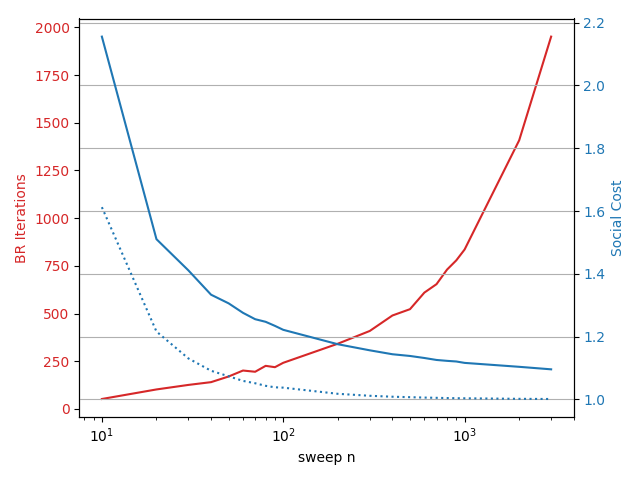
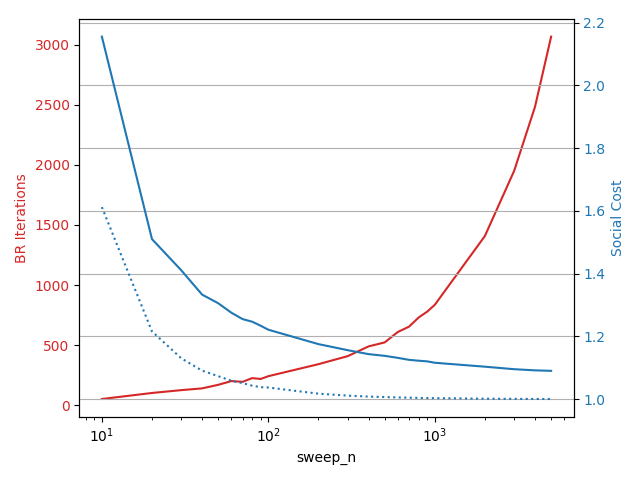
new results and adding alpha capabilities

diff --git a/main_parallel.py b/main_parallel.py
@@ -5,7 +5,6 @@ from best_response_algo import best_response_algo
 from p_regression import generate_data, fit_model
 from plot_from_csv import plot
 import csv
-#from tqdm import tqdm 
 
 import time
 import concurrent.futures 
@@ -16,12 +15,16 @@ N = 100
 NUM_SIMS = 1000
 ALPHA = 1
 XDIM = 5
-NUM_CORES = 25
+NUM_CORES = 12
 
 def run_simulation(tup):
     "Find the nash equilbrium for the given input and get the necessary stats"""
+    a = None
+    if len(tup) == 5:
+        X, true_Y, n_, with_l1, p = tup
+    if len(tup) == 6:
+        X, true_Y, n_, with_l1, p, a = tup
 
-    X, true_Y, n_, with_l1, p = tup
     proj_Y = np.matmul(X, fit_model(X, true_Y))
     MSE_h = np.sum(np.power(proj_Y - true_Y, 2))
 
@@ -31,7 +34,7 @@ def run_simulation(tup):
     else:
         MSE_l1 = 1
 
-    equi_exists, counter, iters, equi_report, beta_equi = best_response_algo(X, true_Y, p)
+    equi_exists, counter, iters, equi_report, beta_equi = best_response_algo(X, true_Y, p, alpha=a)
     social_cost, social_cost_l1, br_iters = 1, 1, 1
     if equi_exists:
         proj = np.matmul(X, beta_equi)
@@ -214,6 +217,62 @@ def sweep_d(d_vals, with_l1=False, to_plot=True):
         else:
             plot(d_vals, "X dimension", "sweep_d", br_iters, social_cost)
 
+def sweep_alpha(a_vals, with_l1=False, to_plot=True):
+    """ Sweep the dimension of the X, and run NUM_SIMS number fo simulations for each values
+    Parallelize the simulations across multiple processes
+    compute the best response iterations, social cost of equi and social cost of L1"""
+    
+    csv_file = open("sweep_alpha.csv", mode='w')
+    csv_writer = csv.writer(csv_file, delimiter=',')
+    social_cost, social_cost_l1, br_iters, equi_found = [], [], [], []
+    social_cost_var, social_cost_l1_var, br_iters_var = [], [], []
+
+    for a_ in a_vals:
+        social_cost_, social_cost_l1_, br_iters_ = [], [], []
+        print("a = ", a_)
+        
+        inputs = []
+        for i in range(NUM_SIMS):
+            X, true_Y = generate_data(d=XDIM, n=N)
+            tup = (X, true_Y, N, with_l1, P, a_)
+            inputs.append(tup)
+            
+        executor = concurrent.futures.ProcessPoolExecutor(NUM_CORES)
+        futures = [executor.submit(run_simulation, item) for item in inputs]
+        concurrent.futures.wait(futures)
+
+        for future in futures:
+            assert(future.done())
+            tup = future.result()
+            br_time, sc, sc_l1 = tup
+            br_iters_.append(br_time)
+            social_cost_.append(sc)
+            social_cost_l1_.append(sc_l1)
+
+        br_iters_, social_cost_, social_cost_l1_ = np.array(br_iters_), np.array(social_cost_), np.array(social_cost_l1_)
+        avg_br, var_br = np.mean(br_iters_), np.sqrt(np.var(br_iters_))
+        avg_sc, var_sc = np.mean(social_cost_), np.sqrt(np.var(social_cost_))
+        avg_sc_l1, var_sc_l1 = np.mean(social_cost_l1_), np.sqrt(np.var(social_cost_l1_))
+        
+        csv_writer.writerow([str(a_), str(avg_br), str(var_br), \
+                str(avg_sc), str(var_sc), str(avg_sc_l1), str(var_sc_l1)])
+        csv_file.flush()
+
+        br_iters.append(avg_br)
+        social_cost.append(avg_sc)
+        social_cost_l1.append(avg_sc_l1)
+        equi_found.append( len(social_cost_) / NUM_SIMS )
+
+        br_iters_var.append(var_br)
+        social_cost_var.append(var_sc)
+        social_cost_l1_var.append(var_sc_l1)
+    
+    if to_plot:
+        if with_l1 == True:
+            plot(a_vals, "X dimension", "sweep_d", br_iters, social_cost, social_cost_l1)
+        else:
+            plot(a_vals, "X dimension", "sweep_d", br_iters, social_cost)
+
 def benchmark_n():
     print("Benchmarking n")
     start = time.time()
@@ -235,16 +294,28 @@ def benchmark_p():
     end = time.time()
     print(end-start)
 
+def benchmark_alpha():
+    print("Benchmarking alpha")
+    start = time.time()
+    sweep_alpha([0.1, 0.2], with_l1=True, to_plot=False)
+    end = time.time()
+    print(end-start)
+
 if __name__ == "__main__":
     #n_vals = np.concatenate([np.arange(10,100,10), np.arange(100,1000,100), np.arange(1000, 11000, 1000)])
-    #sweep_n(n_vals, with_l1=True)
+    #n_vals = [4000, 5000, 6000]
+    #sweep_n(n_vals, with_l1=True, to_plot=False)
 
     #d_vals = np.arange(1, 20, 2)
     #sweep_d(d_vals, with_l1=True)
     
-    p_vals = [1.1, 1.2, 1.3, 1.4, 1.5, 1.6, 1.7, 1.8, 1.9, 2, 3, 4, 5, 6, 7, 8, 9, 10]
-    sweep_p(p_vals, with_l1=True, to_plot=False)
+    #p_vals = [1.1, 1.2, 1.3, 1.4, 1.5, 1.6, 1.7, 1.8, 1.9, 2, 3, 4, 5, 6, 7, 8, 9, 10]
+    #sweep_p(p_vals, with_l1=True, to_plot=False)
     #benchmark_n()
 
+    a_vals = [0.1, 0.2, 0.3, 0.4, 0.5, 0.6, 0.7, 0.8, 0.9, 1.0]
+    sweep_alpha(a_vals, with_l1=True, to_plot=False)
+    
+    #benchmark_alpha()
 
 

diff --git a/best_response_algo.py b/best_response_algo.py
@@ -10,7 +10,7 @@ MAX_COUNT = 2000
 """ Different eps values are needed in different functions primarily due to the sensitivity
  of the algorithm to certain pathological inputs and high number of agents"""
 
-def best_response_algo(X, true_Y, p, test=False):
+def best_response_algo(X, true_Y, p, test=False, alpha=None):
     """ If p == 2, we will be using the analytic best response algorithm
         Otherwise, we will be going for an approximate best response 
         
@@ -18,9 +18,12 @@ def best_response_algo(X, true_Y, p, test=False):
         to their best response. When a round arises, wherein the agents don't update
         (within some eps) then we have reached an approximate equilibrium.
         """
-    
     n = X.shape[0] 
     eps = 0.0001
+    
+    agents = np.array([i for i in range(n)])
+    if alpha != None:
+        agents = np.random.choice(agents, int(len(agents)*alpha), replace=False)
     
     yLast = np.ones(n)
     yNew = true_Y.copy()
@@ -34,7 +37,7 @@ def best_response_algo(X, true_Y, p, test=False):
         yLast = yNew.copy()
         curr_beta = fit_model(X, yNew, p=p)
         
-        for j in range(n):
+        for j in agents:
             if p == 2 and test == False:
                 update, br = l2_agent_best_response(H_mat, yNew, true_Y, j)
             else:
@@ -48,12 +51,12 @@ def best_response_algo(X, true_Y, p, test=False):
     if curr_beta[0] == -1:
         curr_beta = fit_model(X, equi_report, p=p)
     
-    if np.linalg.norm(yLast - equi_report) <= eps and verify_equilibrium(X, equi_report, true_Y, p):
+    if np.linalg.norm(yLast - equi_report) <= eps and verify_equilibrium(X, equi_report, true_Y, p, agents):
         return (True, counter, br_iters, equi_report, curr_beta)
     else:
         return (False, counter, br_iters, equi_report, curr_beta)
 
-def verify_equilibrium(X, equi_Y, true_Y, p):
+def verify_equilibrium(X, equi_Y, true_Y, p, agents=None):
     """ Verify if this is an equilibrium. The idea (mentioned in the paper) is: at equilbrium, the
     agent either reports 0 and the line passes above his preferred point, reports 1 and it passes
     below his preferred point, or reports something in (0,1) and the line goes right through
@@ -69,7 +72,7 @@ def verify_equilibrium(X, equi_Y, true_Y, p):
             return True
         return False
     
-    for i in range(n):
+    for i in agents:
         if in_range(equi_Y[i], 0) and (proj[i]-eps > true_Y[i] or proj[i] + eps > true_Y[i]):
             continue
         elif in_range(equi_Y[i], 1) and (proj[i]-eps < true_Y[i] or proj[i] + eps < true_Y[i]):

diff --git a/plot_from_csv.py b/plot_from_csv.py
@@ -1,7 +1,7 @@
 #!/usr/bin/python3
 import csv
 import sys
-#import matplotlib.pyplot as plt
+import matplotlib.pyplot as plt
 
 def plot(x_vals, xlabel, name, br_time_vals, sc_vals, sc_l1_vals=None, log=False):
     """ Plot the best response, iterations, social cost of equilibrium regression
